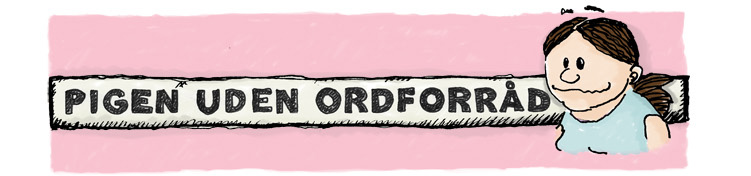
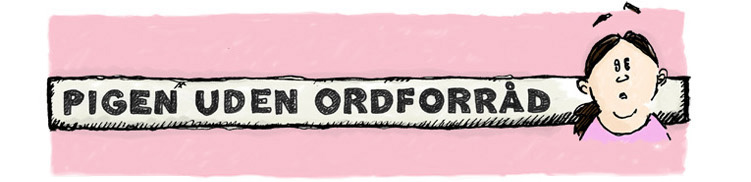
Update gallery header

diff --git a/css/style.css b/css/style.css
@@ -258,7 +258,7 @@ div.gallery-item {
   background: #fff;
 }
 body.gallery div#header {
-  height: 148px;
+  height: 155px;
 }
 body.gallery div#container {
   min-height: 1000px;
